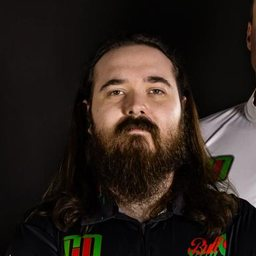
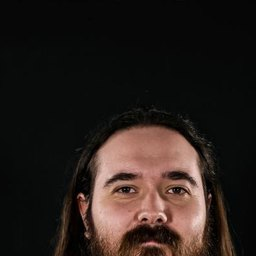
Use solo member photos and make pop-ups rival banter
Replaces the group-crop avatars for Bailey, Dan and DC with cleaner solo
portraits cropped from their individual Pics shots. The reaction pop-up now
shows a rival member (not the one you're playing) delivering the line, name
included, for proper banter energy. Ollie still uses the group crop pending a
better solo shot.

https://claude.ai/code/session_01Pux5oy86xMqQ3pPp2nn7VC

diff --git a/src/game/components/DartStage.tsx b/src/game/components/DartStage.tsx
@@ -17,6 +17,7 @@ import {
 import type { Character, ChaosModifier, ThrowResult } from '../types';
 import type { ReactionTier } from '../data/reactions';
 import { pickReaction } from '../data/reactions';
+import { CHARACTERS } from '../data/characters';
 
 export interface ResolveInfo {
   special: Character['id'] | null;
@@ -106,7 +107,7 @@ export function DartStage({
 
   // Ephemeral feedback.
   const [pops, setPops] = useState<FloatPop[]>([]);
-  const [reaction, setReaction] = useState<{ text: string; tier: ReactionTier } | null>(null);
+  const [reaction, setReaction] = useState<{ text: string; tier: ReactionTier; speaker: Character } | null>(null);
   const [shake, setShake] = useState(false);
   const [bigBanner, setBigBanner] = useState<string | null>(null);
   const popId = useRef(0);
@@ -278,7 +279,10 @@ export function DartStage({
     setPops((prev) => [...prev.slice(-3), { id, text: label, color, big }]);
     setTimeout(() => setPops((prev) => prev.filter((p) => p.id !== id)), 1000);
 
-    setReaction({ text: pickReaction(resolved.tier), tier: resolved.tier });
+    // A rival member (not the one you're playing) delivers the banter.
+    const rivals = CHARACTERS.filter((c) => c.id !== character.id);
+    const speaker = rivals[Math.floor(Math.random() * rivals.length)];
+    setReaction({ text: pickReaction(resolved.tier), tier: resolved.tier, speaker });
     setTimeout(() => setReaction(null), 2200);
 
     sfxThud();
@@ -410,8 +414,10 @@ export function DartStage({
                     : 'bg-bull-panel2 text-bull-chalk'
             }`}
           >
-            <Avatar character={character} className="h-9 w-9 text-xs" />
-            <span>{reaction.text}</span>
+            <Avatar character={reaction.speaker} className="h-9 w-9 text-xs" />
+            <span>
+              <span className="font-black">{reaction.speaker.name.split(' ')[0]}:</span> {reaction.text}
+            </span>
           </div>
         </div>
       )}
